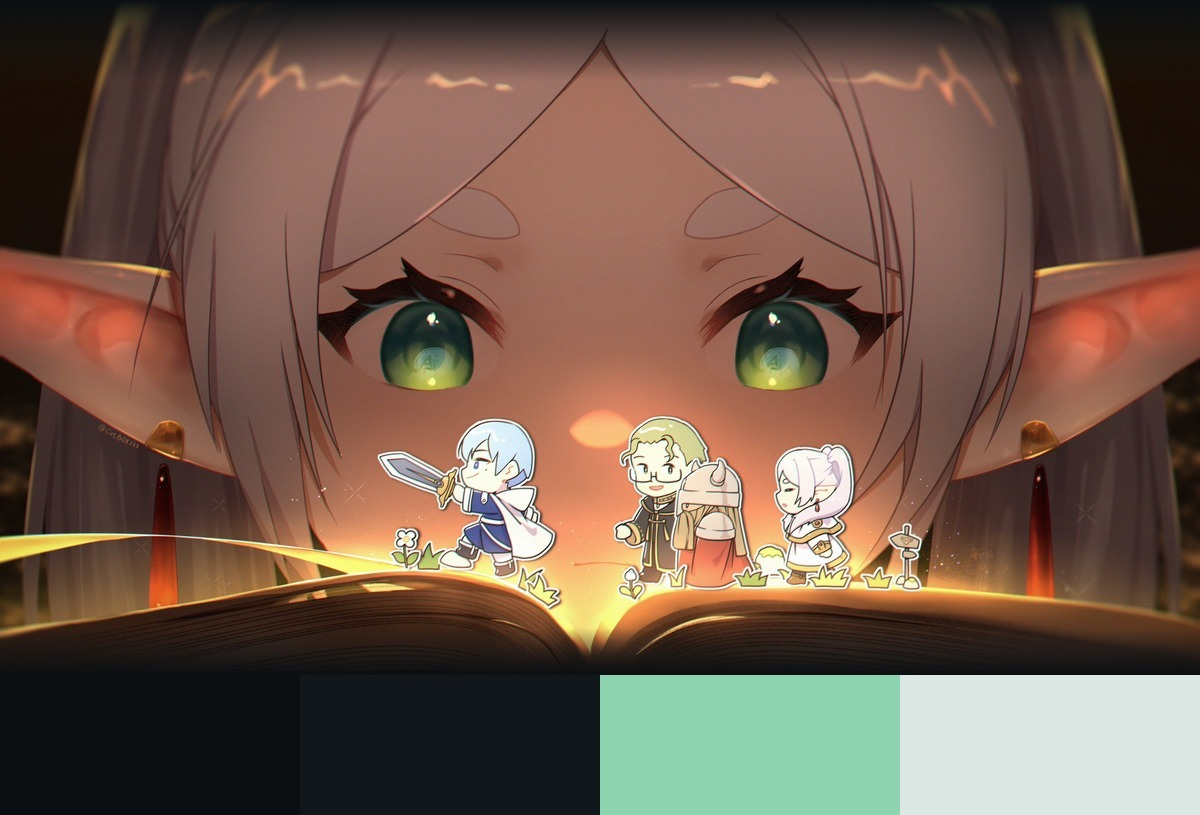
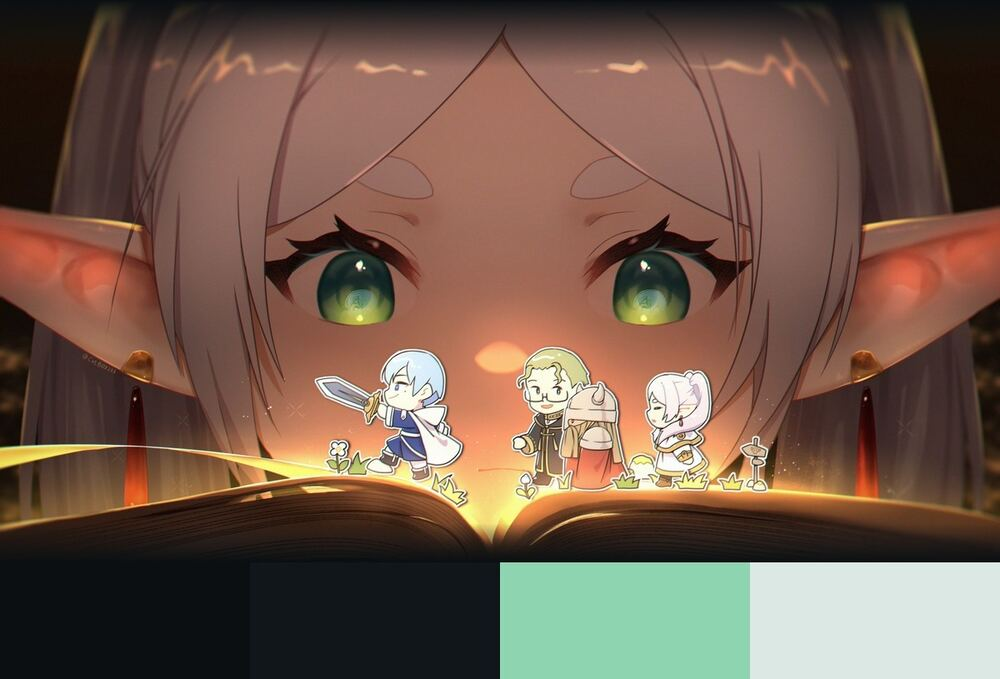
fix: 图片本地化压缩

diff --git a/content/post/2026-09-23-omarchy-47-themes-anime-desktop.md b/content/post/2026-09-23-omarchy-47-themes-anime-desktop.md
@@ -21,7 +21,7 @@ tags: [Linux, Omarchy, Hyprland, 主题美化, 二次元]
 
 选 IP 不看心情看**数据**：写脚本探测 Wallhaven 上各 IP 的 4K 素材量，热门 IP（电锯人 43 张、海贼王 21 张）直接进，素材太薄的（比如某特工全家桶只有 1 张 4K）忍痛跳过。二次元壁纸站 4K 资源分布极不均匀，先查库存再开工能省一半无效功。
 
-![动漫主题预览](https://raw.githubusercontent.com/jasper-nan/omarchy-anime-themes/main/docs/preview-grid.png)
+![动漫主题预览](/images/showcase/anime-grid.jpg)
 
 二、壁纸不是找来的，是"造"出来的
 

diff --git a/content/post/omarchy-genshin-themes-11-characters-open-source.md b/content/post/omarchy-genshin-themes-11-characters-open-source.md
@@ -14,7 +14,7 @@ tags:
 
 ## 一、先上成品
 
-![11 主题预览](https://raw.githubusercontent.com/jasper-nan/omarchy-genshin-themes/main/docs/preview-grid.png)
+![11 主题预览](/images/showcase/genshin-grid.jpg)
 
 角色 | 元素 | 主配色 | 模式
 ---|---|---|---
